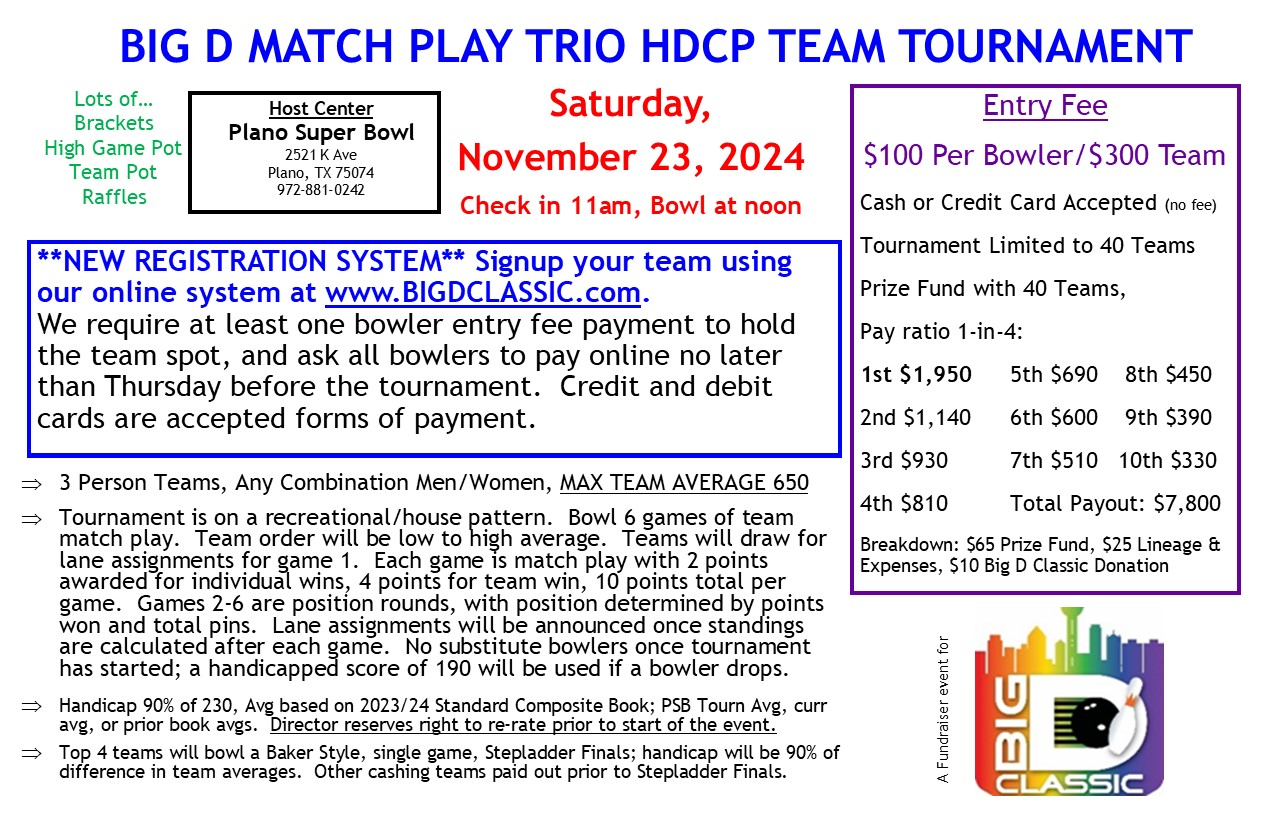
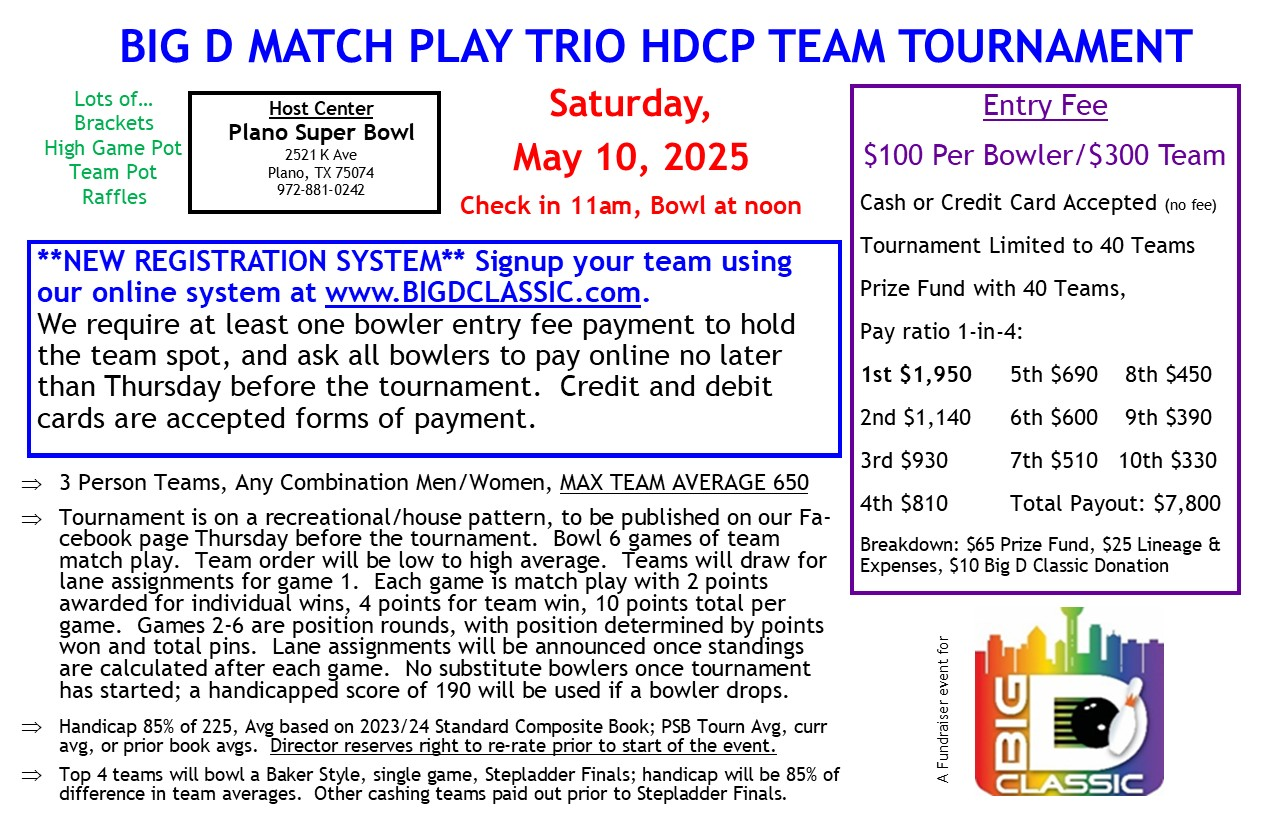
library update, add may fundraiser details

Changed region(s): [[0.0306, 0.6061, 0.6729, 0.9697], [0.3365, 0.1515, 0.6424, 0.2121]]

diff --git a/src/components/Spotlight/Spotlight.js b/src/components/Spotlight/Spotlight.js
@@ -1,6 +1,7 @@
 import React from "react";
 import Card from "react-bootstrap/Card";
 import Link from "next/link";
+import {REGISTER_URL} from "../../utils/misc";
 
 import styles from './Spotlight.module.scss';
 
@@ -50,23 +51,23 @@ const Spotlight = () => {
 
       {/*<hr/>*/}
 
-      {/*<Card.Text className={'mb-3'}>*/}
-      {/*  Our next Match Play Trios fundraising event takes place November 23.*/}
-      {/*</Card.Text>*/}
+      <Card.Text className={'mb-3'}>
+        Our next Match Play Trios fundraising event takes place May 10.
+      </Card.Text>
 
-      {/*<Card.Text className={'mb-3'}>*/}
-      {/*  <Link href={'/trios-rules'}>*/}
-      {/*    Get the details.*/}
-      {/*  </Link>*/}
-      {/*</Card.Text>*/}
+      <Card.Text className={'mb-3'}>
+        <Link href={'/trios-rules'}>
+          Details
+        </Link>
+      </Card.Text>
 
-      {/*<Card.Text className={'text-center mb-3'}>*/}
-      {/*  <a href={REGISTER_URL}*/}
-      {/*     className="btn btn-primary">*/}
-      {/*    Register Online*/}
-      {/*    <i className="bi bi-arrow-right ps-2" aria-hidden={true} />*/}
-      {/*  </a>*/}
-      {/*</Card.Text>*/}
+      <Card.Text className={'text-center mb-3'}>
+        <a href={REGISTER_URL}
+           className="btn btn-primary btn-sm">
+          Register Your Team
+          <i className="bi bi-arrow-right ps-2" aria-hidden={true} />
+        </a>
+      </Card.Text>
 
       {/*<Card.Text>*/}
       {/*  /!*We&apos;ll post results here as soon as they're available.*!/*/}
@@ -99,7 +100,7 @@ const Spotlight = () => {
       {/*</Card.Text>*/}
 
       {/*<Card.Text>*/}
-      {/*  We&apos;re hosting a Match Play Trios tournament, on May 4, 2024. Reserve your team&apos;s spot*/}
+      {/*  We&apos;re hosting a Match Play Trios tournament, on May 10, 2025. Reserve your team&apos;s spot*/}
       {/*  today!*/}
       {/*</Card.Text>*/}
       {/*<Card.Text>*/}
@@ -108,30 +109,30 @@ const Spotlight = () => {
       {/*    Full details*/}
       {/*  </Link>*/}
       {/*</Card.Text>*/}
-      {/*<StripeBuyButton buttonId={process.env.NEXT_PUBLIC_TRIOS_BUTTON_ID}/>*/}
+      {/*/!*<StripeBuyButton buttonId={process.env.NEXT_PUBLIC_TRIOS_BUTTON_ID}/>*!/*/}
 
       {/*<hr/>*/}
 
-      <Card.Text>
-        While we prepare for the 2025 Big D Classic, check out the other IGBO tournaments in the D/FW metroplex:
-      </Card.Text>
-      <ul>
-        <li>
-          <a href={'https://trotbowling.com/'}>
-            TROT
-          </a>
-        </li>
-        <li>
-          <a href={'https://www.shiftid.org/'}>
-            SHIFTID
-          </a>
-        </li>
-        {/*<li>*/}
-        {/*  <a href={'https://www.damitbowling.org/'}>*/}
-        {/*    DAMIT*/}
-        {/*  </a>*/}
-        {/*</li>*/}
-      </ul>
+      {/*<Card.Text>*/}
+      {/*  While we prepare for the 2025 Big D Classic, check out the other IGBO tournaments in the D/FW metroplex:*/}
+      {/*</Card.Text>*/}
+      {/*<ul>*/}
+      {/*  <li>*/}
+      {/*    <a href={'https://trotbowling.com/'}>*/}
+      {/*      TROT*/}
+      {/*    </a>*/}
+      {/*  </li>*/}
+      {/*  <li>*/}
+      {/*    <a href={'https://www.shiftid.org/'}>*/}
+      {/*      SHIFTID*/}
+      {/*    </a>*/}
+      {/*  </li>*/}
+      {/*  /!*<li>*!/*/}
+      {/*  /!*  <a href={'https://www.damitbowling.org/'}>*!/*/}
+      {/*  /!*    DAMIT*!/*/}
+      {/*  /!*  </a>*!/*/}
+      {/*  /!*</li>*!/*/}
+      {/*</ul>*/}
 
       {/*<Card.Text>*/}
       {/*  Registration will be opening soon, keep your eyes peeled!*/}

diff --git a/src/components/TriosRules/TriosRules.js b/src/components/TriosRules/TriosRules.js
@@ -7,7 +7,7 @@ const TriosRules = () => {
     {
       header: 'Basics',
       markdown: `
-1. Tournament takes place on Saturday, 23 November, 2024.
+1. Tournament takes place on Saturday, 10 May, 2025.
 1. Location is Plano Super Bowl, 2521 K Ave, Plano, TX 75074, 972-881-0242
 1. Check-in begins at 11am, bowling begins at 12pm.
       `,
@@ -23,10 +23,10 @@ const TriosRules = () => {
     {
       header: 'Averages and Handicap',
       markdown: `
-1. Handicap 90% of 230, average based on 2023/24 Standard Composite Book, PSB tournament average, current average, or prior book averages.
+1. Handicap 85% of 225, average based on 2023/24 Standard Composite Book, PSB tournament average, current average, or prior book averages.
 1. **Director reserves the right to re-rate a bowler prior to start of the event.**
 1. The top 4 teams will bowl a Baker Style, single game, stepladder final.
-1. Handicap will be 90% of the difference in team averages.
+1. Handicap will be 85% of the difference in team averages.
 1. Other cashing teams will be paid out prior to the stepladder final.
 `,
     },

diff --git a/src/pages/trios-rules.js b/src/pages/trios-rules.js
@@ -5,6 +5,7 @@ import TriosRules from "../components/TriosRules/TriosRules";
 import flyer from '../images/trios-flyer.jpg';
 import Image from "next/image";
 import Link from "next/link";
+import {REGISTER_URL} from "../utils/misc";
 
 const Page = () => {
   return (
@@ -14,11 +15,18 @@ const Page = () => {
                alt={'Flyer with event information'}
                className={'img-fluid'}
         />
+        <div className={'text-center mb-3'}>
+          <Link className={'btn btn-sm btn-primary'}
+                href={REGISTER_URL}>
+            Register Your Team
+            <i className="bi bi-arrow-right ps-2" aria-hidden={true}/>
+          </Link>
+        </div>
       </div>
       <TriosRules/>
       <div className={'text-center mb-3'}>
         <Link className={'btn btn-lg btn-primary'}
-              href={'https://www.tourn.io/tournaments/bigd-3-nov-2024'}>
+              href={REGISTER_URL}>
           Register Your Team
           <i className="bi bi-arrow-right ps-2" aria-hidden={true}/>
         </Link>

diff --git a/src/utils/misc.js b/src/utils/misc.js
@@ -7,3 +7,5 @@ export const useClientReady = () => {
   }, []);
   return ready;
 }
+
+export const REGISTER_URL = 'https://www.tourn.io/tournaments/bigd-3-may-2025';
